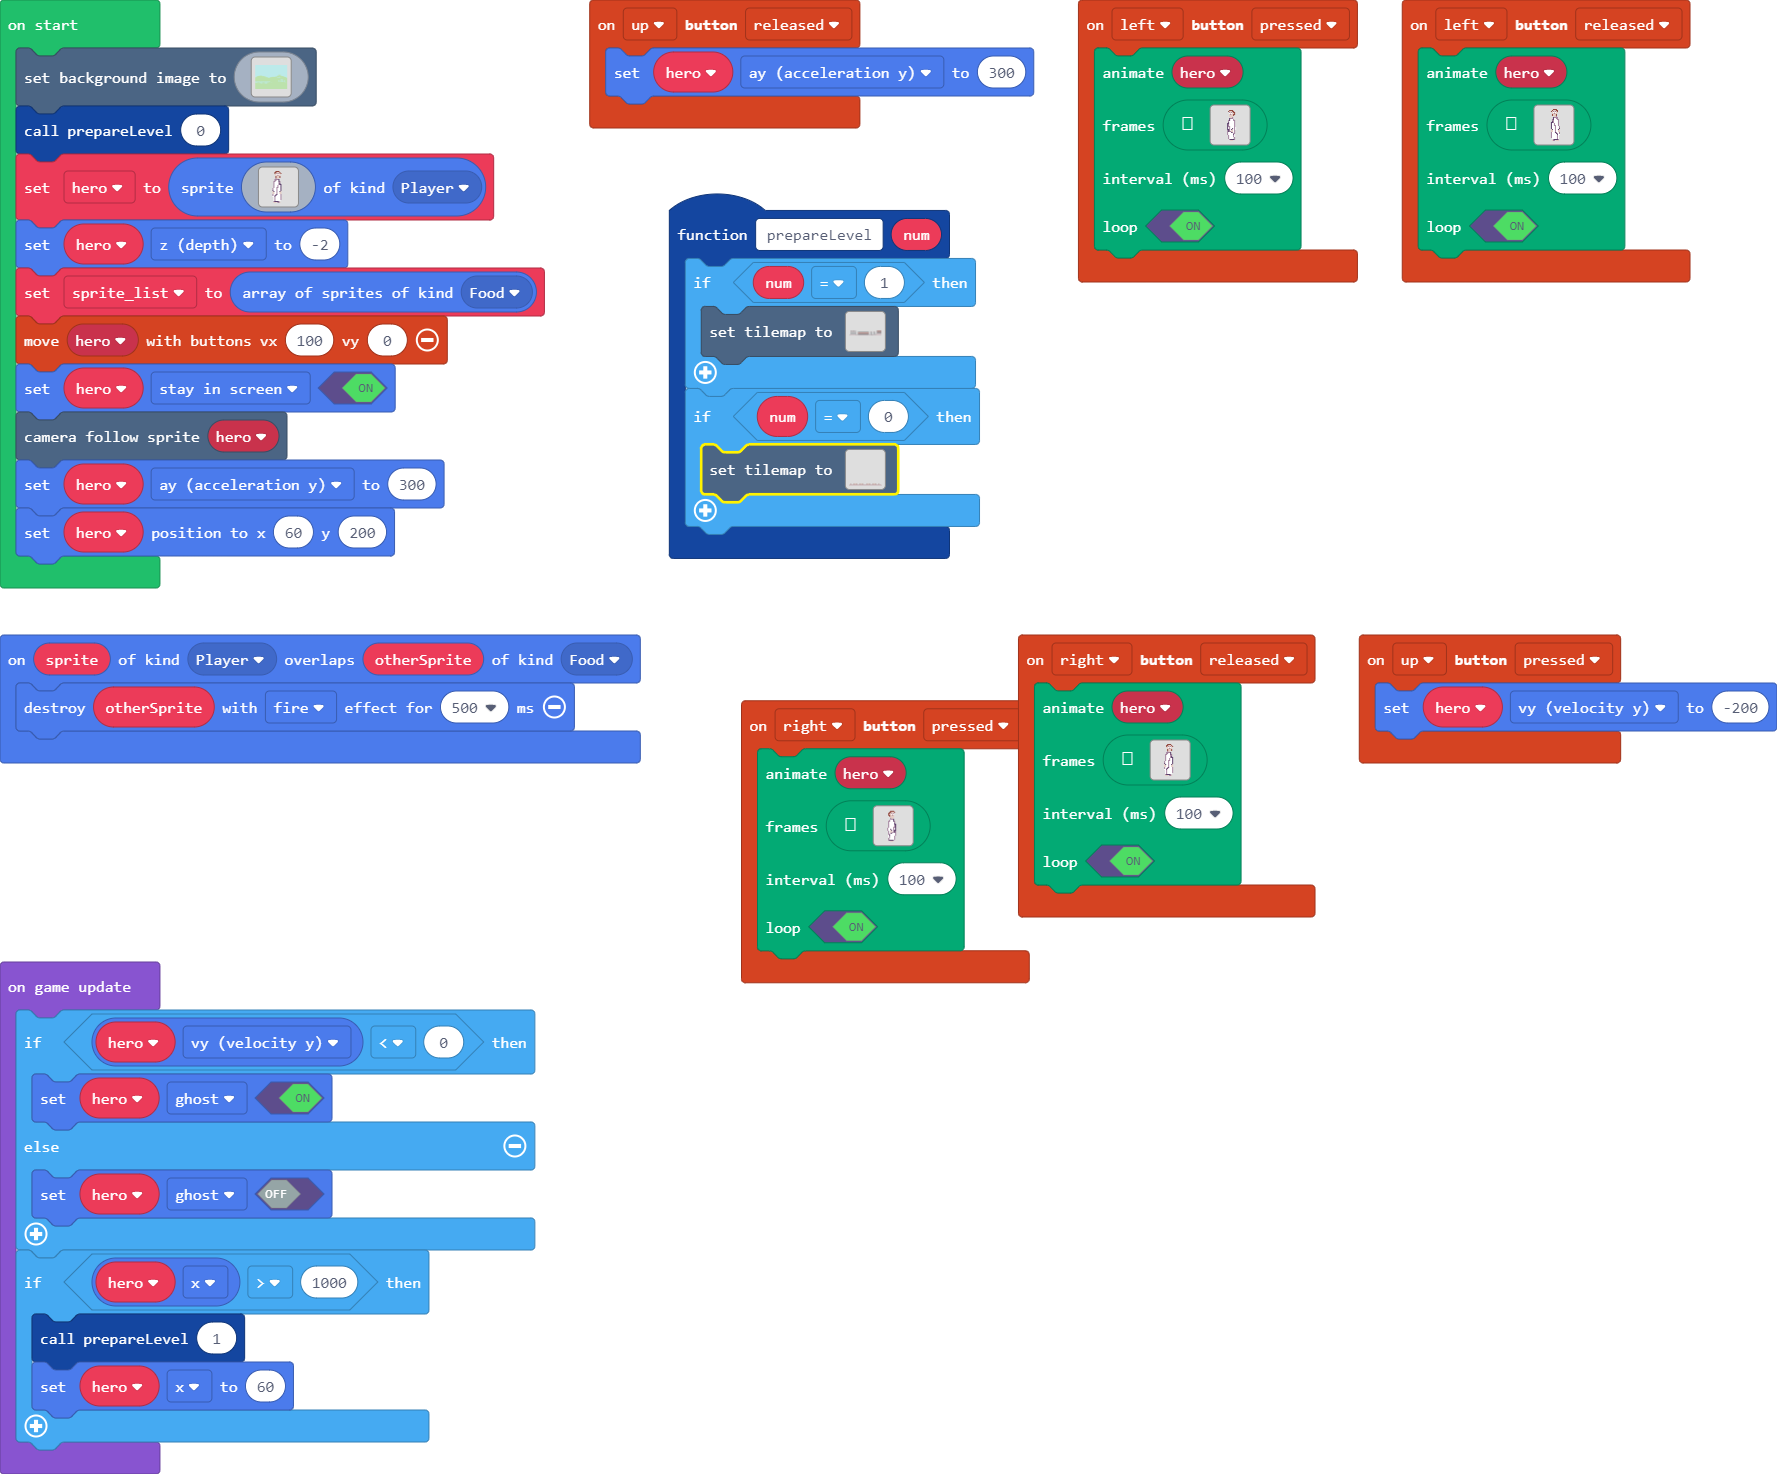
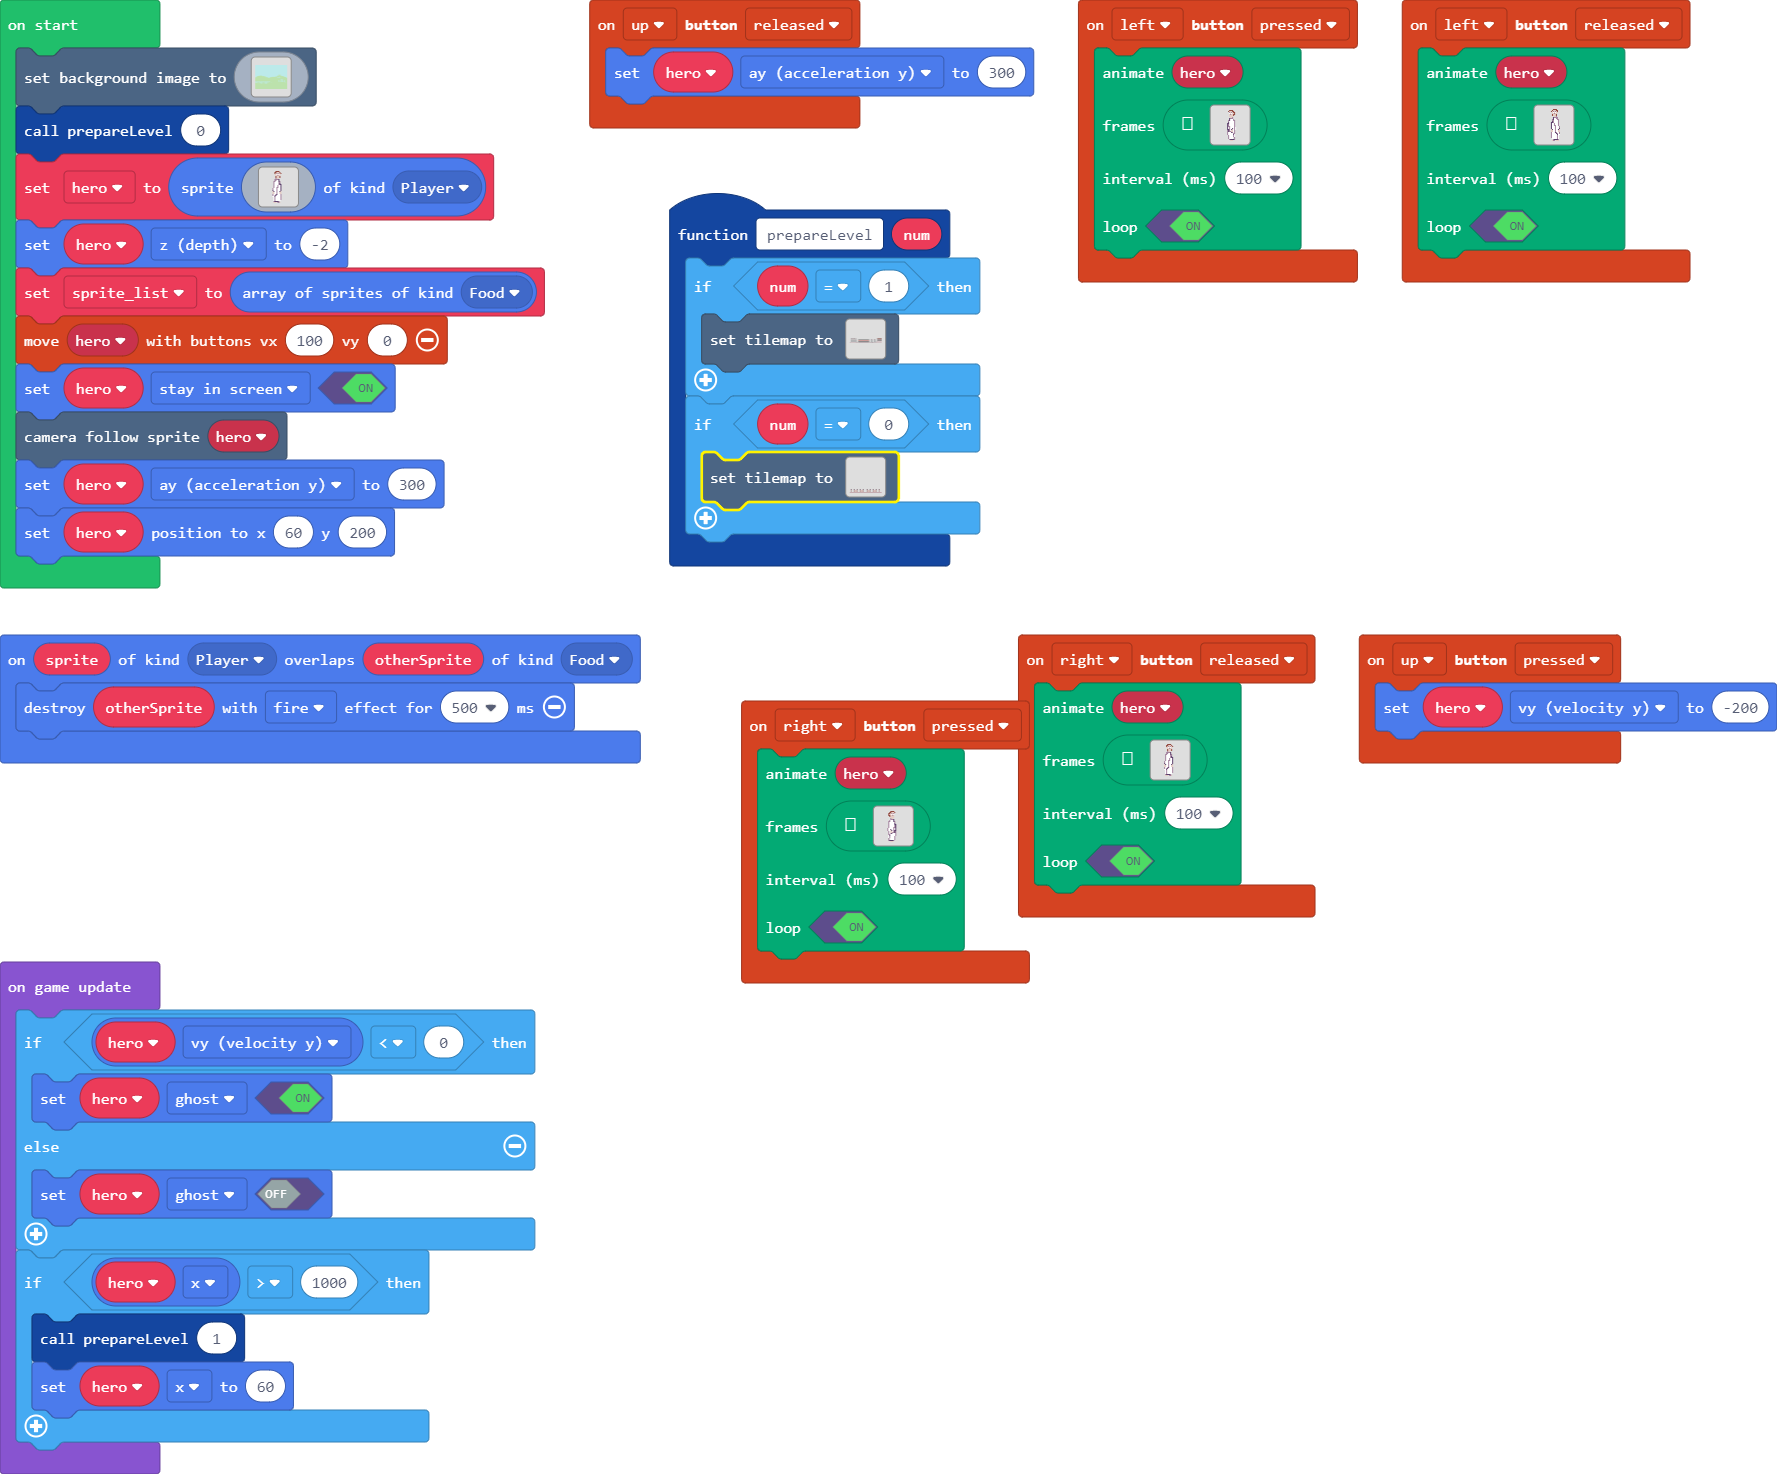
basic tiles

Changed region(s): [[0.3714, 0.156, 0.5571, 0.4057]]

diff --git a/main.ts b/main.ts
@@ -774,7 +774,7 @@ c c c b b b b b b b b b b b b b
 . . b d d d d d d d d d d d d d 
 . . b d d d d d d d d d d d d d 
 . . b d d d d d d d d d d d d d 
-. . b d d d d d d d d d d d d d 
+. . b 3 3 3 3 3 3 3 3 3 3 3 3 3 
 . b d d d d d d d d d d d d d d 
 b f f f f f f f f f f f f f f f 
 `
@@ -793,7 +793,7 @@ d d d d d d d d d d d d d d d d
 d d d d d d d d d d d d d d d d 
 d d d d d d d d d d d d d d d d 
 d d d d d d d d d d d d d d d d 
-d d d d d d d d d d d d d d d d 
+3 3 3 3 3 3 3 3 3 3 3 3 3 3 3 3 
 d d d d d d d d d d d d d d d d 
 f f f f f f f f f f f f f f f f 
 `
@@ -812,9 +812,85 @@ d d d d d d d d d d d d d b . .
 d d d d d d d d d d d d d b . . 
 d d d d d d d d d d d d d b . . 
 d d d d d d d d d d d d d b . . 
-d d d d d d d d d d d d d b . . 
+3 3 3 3 3 3 3 3 3 3 3 3 3 b . . 
 d d d d d d d d d d d d d d b . 
 f f f f f f f f f f f f f f f b 
+`
+    //% blockIdentity=images._tile
+    export const tile45 = img`
+c c c c c c c c c c c c c c c c 
+. b d d d d d d d d d d d d d d 
+. . b b b b b b b b b b b b b b 
+. . b d d d d d d d d d d d d d 
+. . b d d d d d d d d d d d d d 
+. . b d d d d d d d d d d d d d 
+. . b d d d d d d d d d d d d d 
+. . b d d d d d d d d d d d d d 
+. . b d d d d d d d d d d d d d 
+. . b d d d d d d d d d d d d d 
+. . b d d d d d d d d d d d d d 
+. . b d d d d d d d d d d d d d 
+. . b d d d d d d d d d d d d d 
+. . b d d d d d d d d d d d d d 
+. . b d d d d d d d d d d d d d 
+. . b d d d d d d d d d d d d d 
+`
+    //% blockIdentity=images._tile
+    export const tile46 = img`
+c c c c c c c c c c c c c c c c 
+d d d d d d d d d d d d d d d d 
+b b b b b b b b b b b b b b b b 
+d d d d d d d d d d d d d d d d 
+d d d d d d d d d d d d d d d d 
+d d d d d d d d d d d d d d d d 
+d d d d d d d d d d d d d d d d 
+d d d d d d d d d d d d d d d d 
+d d d d d d d d d d d d d d d d 
+d d d d d d d d d d d d d d d d 
+d d d d d d d d d d d d d d d d 
+d d d d d d d d d d d d d d d d 
+d d d d d d d d d d d d d d d d 
+d d d d d d d d d d d d d d d d 
+d d d d d d d d d d d d d d d d 
+d d d d d d d d d d d d d d d d 
+`
+    //% blockIdentity=images._tile
+    export const tile47 = img`
+c c c c c c c c c c c c c c b b 
+d d d d d d d d d d d d d b b . 
+b b b b b b b b b b b b b b . . 
+d d d d d d d d d d d d d b . . 
+d d d d d d d d d d d d d b . . 
+d d d d d d d d d d d d d b . . 
+d d d d d d d d d d d d d b . . 
+d d d d d d d d d d d d d b . . 
+d d d d d d d d d d d d d b . . 
+d d d d d d d d d d d d d b . . 
+d d d d d d d d d d d d d b . . 
+d d d d d d d d d d d d d b . . 
+d d d d d d d d d d d d d b . . 
+d d d d d d d d d d d d d b . . 
+d d d d d d d d d d d d d b . . 
+d d d d d d d d d d d d d b . . 
+`
+    //% blockIdentity=images._tile
+    export const tile48 = img`
+. . c c c c c c c c c c c c . . 
+. . c d d d d d d d d d d c . . 
+. c c c c c c c c c c c c c c . 
+. b b b b b b b b b b b b b b . 
+. c d d d d d d d d d d d d c . 
+. c b b b b b b b b b b b b c . 
+. . c d d d d d d d d d d c . . 
+. . c d d d d d d d d d d c . . 
+. . c d d d d d d d d d d c . . 
+. . c d d d d d d d d d d c . . 
+. . c d d d d d d d d d d c . . 
+. . c d d d d d d d d d d c . . 
+. . c d d d d d d d d d d c . . 
+. . c 3 3 3 3 3 3 3 3 3 3 c . . 
+. c d d d d d d d d d d d d c . 
+. f f f f f f f f f f f f f f . 
 `
 }
 controller.up.onEvent(ControllerButtonEvent.Released, function () {
@@ -1075,13 +1151,13 @@ function prepareLevel (num: number) {
 . 2 2 2 2 2 2 2 2 2 2 2 2 2 . 2 . . . . . . . . . . . . . . . . . . . . . . . . . . . . . . . . . . . . 2 . . . . . . . . . . . 
 2 2 2 2 . . . . . . . . 2 2 2 2 2 2 2 2 2 2 2 2 2 2 2 2 2 2 2 2 2 2 2 2 2 2 2 2 2 2 2 2 2 2 2 2 2 2 2 2 2 2 2 2 2 2 2 2 2 2 2 2 
 `,
-            [myTiles.tile0,sprites.castle.tileGrass2,sprites.castle.tileDarkGrass2,sprites.castle.tilePath5,myTiles.tile1,myTiles.tile2,myTiles.tile3,myTiles.tile4,myTiles.tile5,myTiles.tile6,myTiles.tile7,myTiles.tile9,myTiles.tile10,myTiles.tile11,myTiles.tile12,myTiles.tile13,myTiles.tile14,myTiles.tile15,myTiles.tile16,myTiles.tile17,myTiles.tile19,myTiles.tile20,myTiles.tile21,myTiles.tile22,myTiles.tile23,myTiles.tile24,myTiles.tile25,myTiles.tile26,myTiles.tile27,myTiles.tile28,myTiles.tile29,myTiles.tile30,myTiles.tile31,myTiles.tile32,myTiles.tile33,myTiles.tile34,myTiles.tile35,myTiles.tile36,myTiles.tile37,myTiles.tile38,myTiles.tile39,myTiles.tile40,myTiles.tile41,myTiles.tile42,myTiles.tile43,myTiles.tile44],
+            [myTiles.tile0,sprites.castle.tileGrass2,sprites.castle.tileDarkGrass2,sprites.castle.tilePath5,myTiles.tile1,myTiles.tile2,myTiles.tile3,myTiles.tile4,myTiles.tile5,myTiles.tile6,myTiles.tile7,myTiles.tile9,myTiles.tile10,myTiles.tile11,myTiles.tile12,myTiles.tile13,myTiles.tile14,myTiles.tile15,myTiles.tile16,myTiles.tile17,myTiles.tile19,myTiles.tile20,myTiles.tile21,myTiles.tile22,myTiles.tile23,myTiles.tile24,myTiles.tile25,myTiles.tile26,myTiles.tile27,myTiles.tile28,myTiles.tile29,myTiles.tile30,myTiles.tile31,myTiles.tile32,myTiles.tile33,myTiles.tile34,myTiles.tile35,myTiles.tile36,myTiles.tile37,myTiles.tile38,myTiles.tile39,myTiles.tile40,myTiles.tile41,myTiles.tile42,myTiles.tile43,myTiles.tile44,myTiles.tile45,myTiles.tile46,myTiles.tile47,myTiles.tile48],
             TileScale.Sixteen
         ))
     }
     if (num == 0) {
         tiles.setTilemap(tiles.createTilemap(
[2 lines of base64/hex data omitted]
             img`
 . . . . . . . . . . . . . . . . . . . . . . . . . . . . . . . . 
 . . . . . . . . . . . . . . . . . . . . . . . . . . . . . . . . 
@@ -1116,7 +1192,7 @@ function prepareLevel (num: number) {
 . . . . . . . . . . . . . . . . . . . . . . . . . . . . . . . . 
 2 2 2 2 2 2 2 2 2 2 2 2 2 2 2 2 2 2 2 2 2 2 2 2 2 2 2 2 2 2 2 2 
 `,
-            [myTiles.tile0,sprites.castle.tileGrass2,sprites.castle.tileDarkGrass2,sprites.castle.tilePath5,myTiles.tile1,myTiles.tile2,myTiles.tile3,myTiles.tile4,myTiles.tile5,myTiles.tile6,myTiles.tile7,myTiles.tile9,myTiles.tile10,myTiles.tile11,myTiles.tile12,myTiles.tile13,myTiles.tile14,myTiles.tile15,myTiles.tile16,myTiles.tile17,myTiles.tile19,myTiles.tile20,myTiles.tile21,myTiles.tile22,myTiles.tile23,myTiles.tile24,myTiles.tile25,myTiles.tile26,myTiles.tile27,myTiles.tile28,myTiles.tile29,myTiles.tile30,myTiles.tile31,myTiles.tile32,myTiles.tile33,myTiles.tile34,myTiles.tile35,myTiles.tile36,myTiles.tile37,myTiles.tile38,myTiles.tile39,myTiles.tile40,myTiles.tile41,sprites.castle.tileGrass1,myTiles.tile42,myTiles.tile43,myTiles.tile44],
+            [myTiles.tile0,sprites.castle.tileGrass2,sprites.castle.tileDarkGrass2,sprites.castle.tilePath5,myTiles.tile1,myTiles.tile2,myTiles.tile3,myTiles.tile4,myTiles.tile5,myTiles.tile6,myTiles.tile7,myTiles.tile9,myTiles.tile10,myTiles.tile11,myTiles.tile12,myTiles.tile13,myTiles.tile14,myTiles.tile15,myTiles.tile16,myTiles.tile17,myTiles.tile19,myTiles.tile20,myTiles.tile21,myTiles.tile22,myTiles.tile23,myTiles.tile24,myTiles.tile25,myTiles.tile26,myTiles.tile27,myTiles.tile28,myTiles.tile29,myTiles.tile30,myTiles.tile31,myTiles.tile32,myTiles.tile33,myTiles.tile34,myTiles.tile35,myTiles.tile36,myTiles.tile37,myTiles.tile38,myTiles.tile39,myTiles.tile40,myTiles.tile41,sprites.castle.tileGrass1,myTiles.tile42,myTiles.tile43,myTiles.tile44,myTiles.tile45,myTiles.tile46,myTiles.tile47,myTiles.tile48],
             TileScale.Sixteen
         ))
     }
